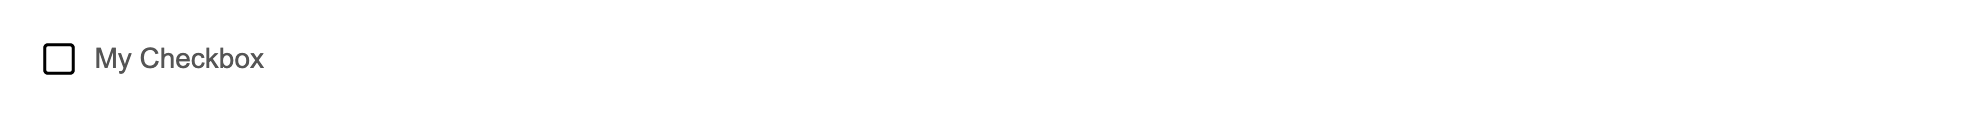
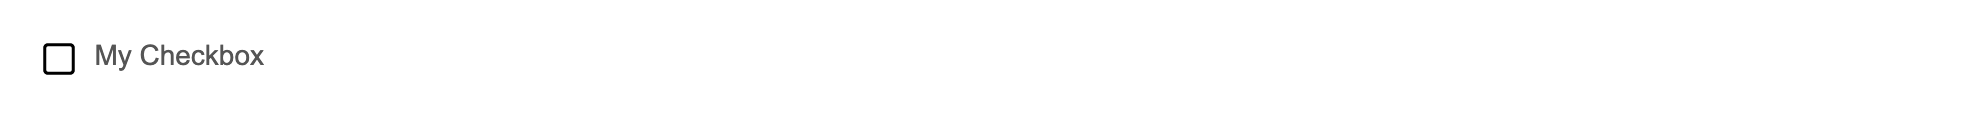
font test

Changed region(s): [[0.0309, 0.3814, 0.1544, 0.5847]]

diff --git a/src/options/Options.ts b/src/options/Options.ts
@@ -126,7 +126,7 @@ export class Options extends RapidElement {
       }
 
       .option .detail {
-        font-size: 85%;
+        font-size: 0.8em;
         color: rgba(0, 0, 0, 0.4);
       }
 
@@ -154,7 +154,7 @@ export class Options extends RapidElement {
         align-items: center;
         background: #eee;
         max-height: 0;
-        transition: max-height 200ms ease-in-out;
+        transition: max-height var(--transition-speed) ease-in-out;
         border-bottom-left-radius: var(--curvature-widget);
         border-bottom-right-radius: var(--curvature-widget);
         display: flex;

diff --git a/src/checkbox/Checkbox.ts b/src/checkbox/Checkbox.ts
@@ -41,7 +41,6 @@ export class Checkbox extends FormElement {
         margin-left: 8px;
         font-weight: 300;
         font-size: 14px;
-        line-height: 19px;
         flex-grow: 1;
       }
 
